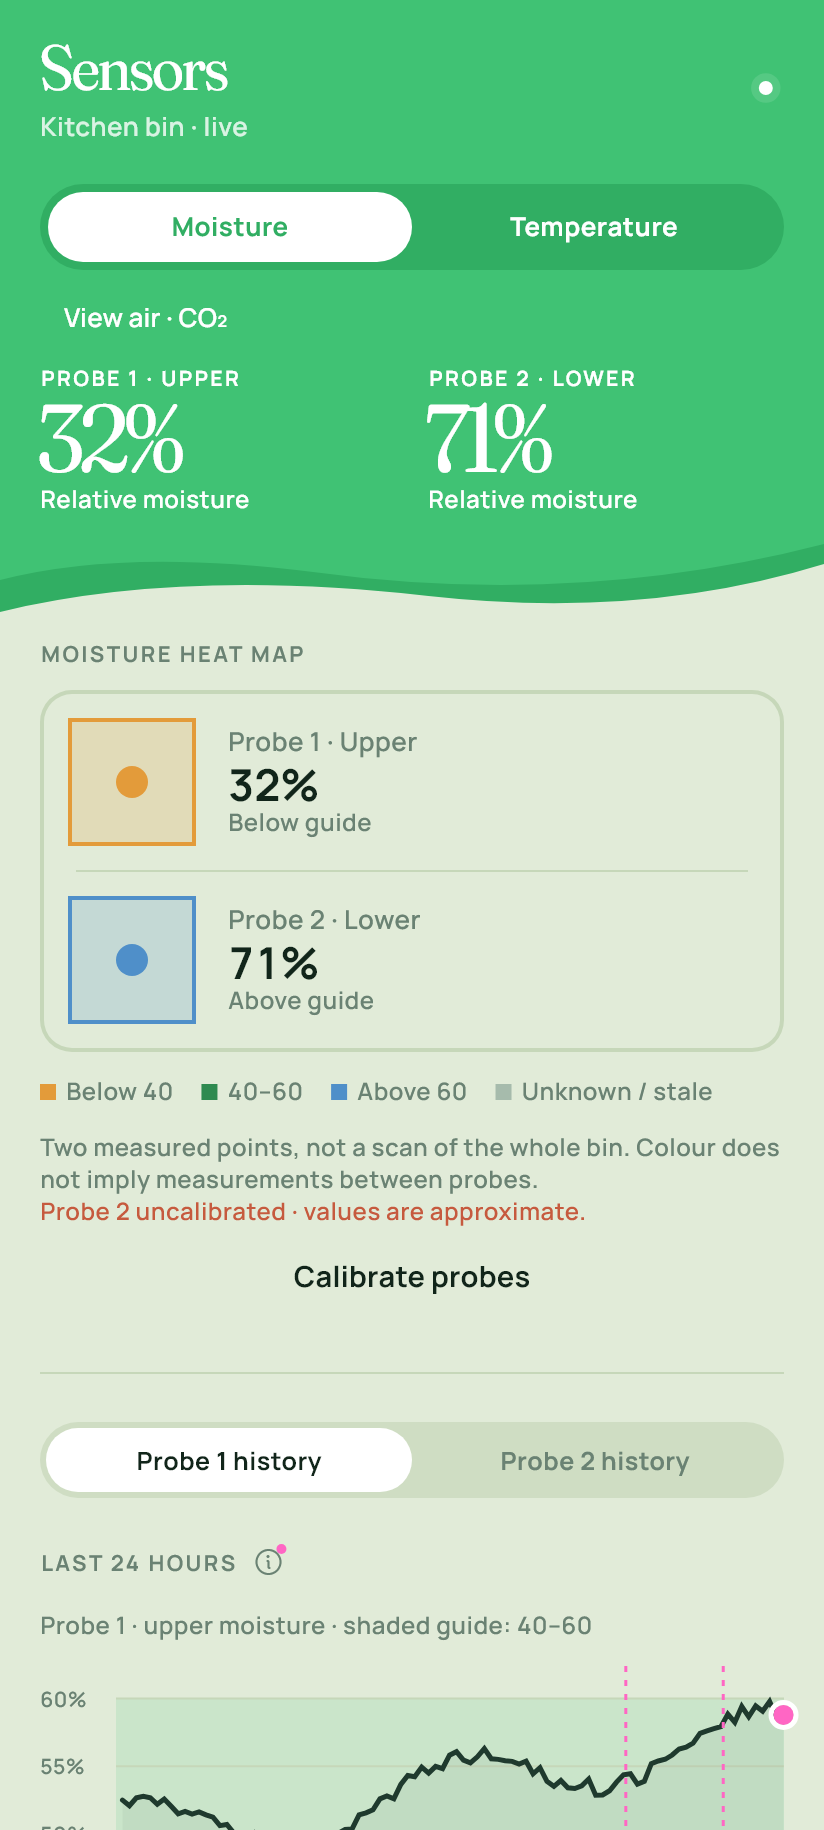
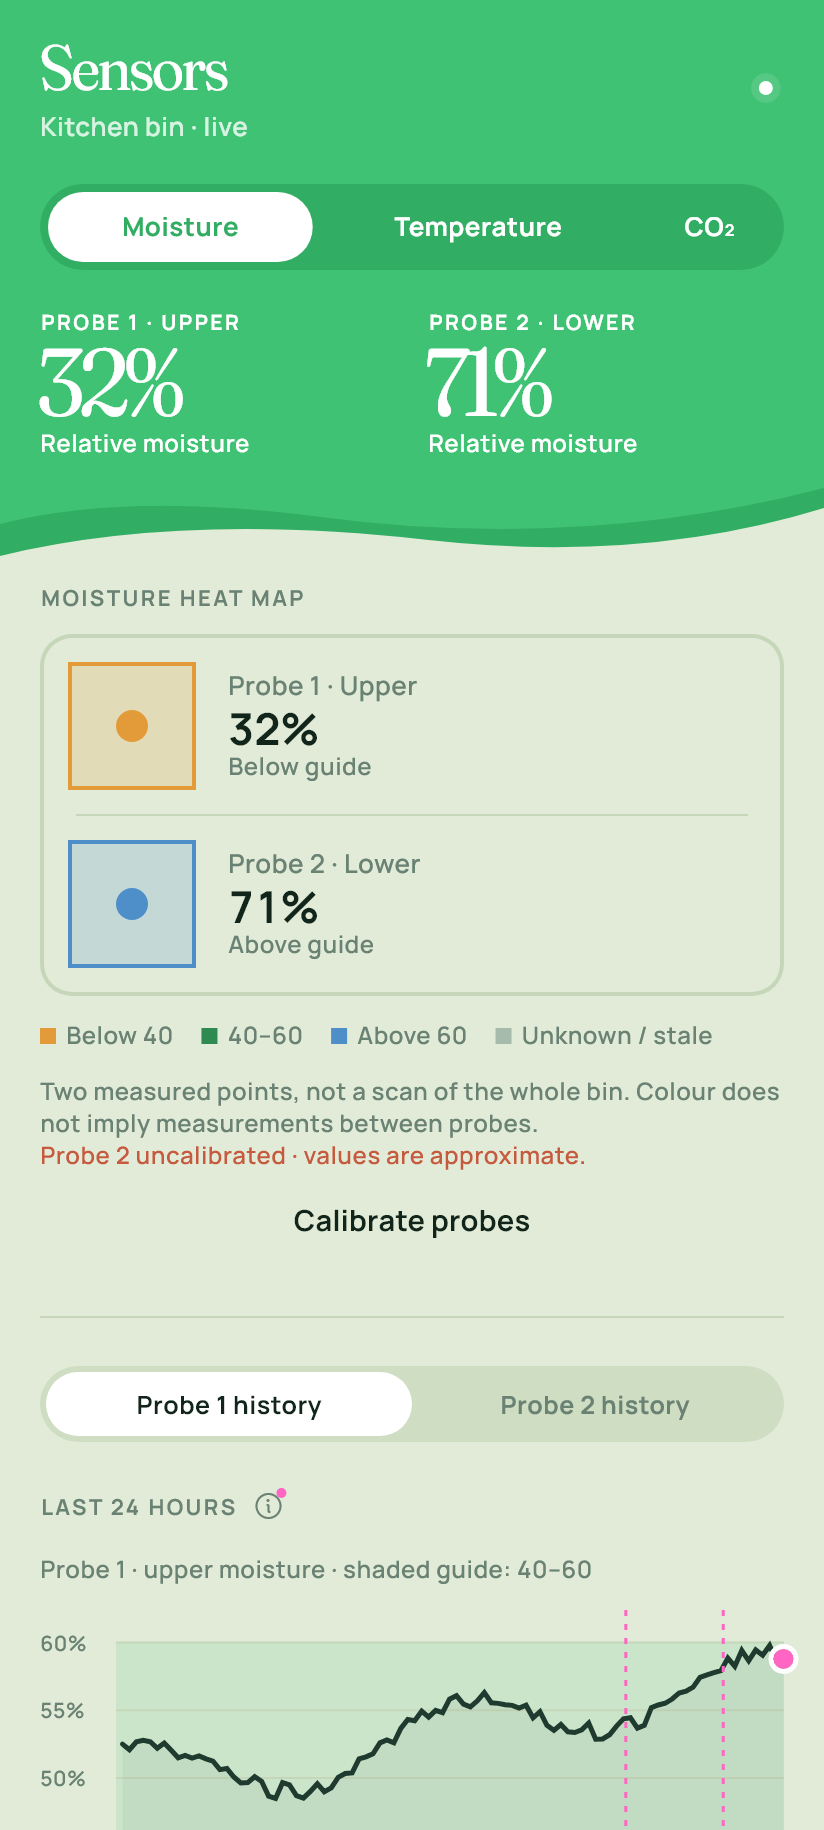
fix(sensors): show moisture temperature and CO2 in one selector

diff --git a/app/test/sensors_visual_test.dart b/app/test/sensors_visual_test.dart
@@ -9,6 +9,7 @@ import 'package:calmpost/domain/models.dart';
 import 'package:calmpost/features/layers/layers_screen.dart';
 import 'package:calmpost/state/providers.dart';
 import 'package:calmpost/ui/theme.dart';
+import 'package:calmpost/ui/brand.dart';
 import 'package:flutter/material.dart';
 import 'package:flutter/rendering.dart';
 import 'package:flutter/services.dart';
@@ -76,11 +77,25 @@ void main() {
     await t.tap(find.text('Temperature'));
     await settle(t);
     await capture('02-temperature');
+    await t.tap(find.text('CO₂'));
+    await settle(t);
+    expect(c.read(sensorMetricProvider), Metric.co2);
+    expect(t.widget<BandSegments<Metric>>(find.byType(BandSegments<Metric>)).selected, Metric.co2);
+    expect(find.text('View air · CO₂'), findsNothing);
+    await capture('03-co2');
     t.view.physicalSize = const Size(360 * 2, 740 * 2);
     t.platformDispatcher.textScaleFactorTestValue = 1.3;
     for (final metric in Metric.values) {
-      c.read(sensorMetricProvider.notifier).state = metric;
+      final label = switch (metric) {
+        Metric.moisture => 'Moisture',
+        Metric.temperature => 'Temperature',
+        Metric.co2 => 'CO₂',
+      };
+      await t.tap(find.text(label));
       await settle(t);
+      expect(c.read(sensorMetricProvider), metric);
+      expect(t.widget<BandSegments<Metric>>(find.byType(BandSegments<Metric>)).values, [Metric.moisture, Metric.temperature, Metric.co2]);
+      if (metric == Metric.co2) await capture('04-co2-small-large-text');
       final scroll = find.byType(Scrollable).first;
       for (var i = 0; i < 4; i++) {
         await t.drag(scroll, const Offset(0, -400));

diff --git a/app/lib/features/layers/layers_screen.dart b/app/lib/features/layers/layers_screen.dart
@@ -77,20 +77,22 @@ class _LayersScreenState extends ConsumerState<LayersScreen> {
       hero: Column(
         crossAxisAlignment: CrossAxisAlignment.start,
         children: [
-          // Two primary hardware views; air readings remain reachable below.
           BandSegments<Metric>(
-            values: const [Metric.moisture, Metric.temperature],
+            values: const [Metric.moisture, Metric.temperature, Metric.co2],
             selected: metric,
-            label: (m) => m == Metric.moisture ? 'Moisture' : 'Temperature',
+            label: (m) => switch (m) {
+              Metric.moisture => 'Moisture',
+              Metric.temperature => 'Temperature',
+              Metric.co2 => 'CO₂',
+            },
+            flex: (m) => switch (m) {
+              Metric.moisture => 4,
+              Metric.temperature => 5,
+              Metric.co2 => 2,
+            },
             onChanged: (m) => ref.read(sensorMetricProvider.notifier).state = m,
           ),
-          Align(
-            alignment: Alignment.centerLeft,
-            child: TextButton(
-              onPressed: () => ref.read(sensorMetricProvider.notifier).state = Metric.co2,
-              child: Text(metric == Metric.co2 ? 'Air · CO₂ selected' : 'View air · CO₂', style: T.label.copyWith(color: C.onBrand)),
-            ),
-          ),
+          const SizedBox(height: S.x5),
           if (moisture)
             Row(
               crossAxisAlignment: CrossAxisAlignment.start,

diff --git a/app/lib/ui/brand.dart b/app/lib/ui/brand.dart
@@ -128,7 +128,12 @@ class SectionLabel extends StatelessWidget {
         Expanded(
           child: info == null
               ? Text(text, style: T.caps)
-              : Row(children: [Flexible(child: Text(text, style: T.caps)), InfoDot(info!)]),
+              : Row(
+                  children: [
+                    Flexible(child: Text(text, style: T.caps)),
+                    InfoDot(info!),
+                  ],
+                ),
         ),
         ?trailing,
       ],
@@ -166,11 +171,12 @@ class PinkPill extends StatelessWidget {
 
 /// Segmented control drawn on the green band (white pill for the selected item).
 class BandSegments<V> extends StatelessWidget {
-  const BandSegments({super.key, required this.values, required this.selected, required this.label, required this.onChanged});
+  const BandSegments({super.key, required this.values, required this.selected, required this.label, required this.onChanged, this.flex});
   final List<V> values;
   final V selected;
   final String Function(V) label;
   final ValueChanged<V> onChanged;
+  final int Function(V)? flex;
 
   @override
   Widget build(BuildContext context) {
@@ -181,6 +187,7 @@ class BandSegments<V> extends StatelessWidget {
         children: [
           for (final v in values)
             Expanded(
+              flex: flex?.call(v) ?? 1,
               child: GestureDetector(
                 behavior: HitTestBehavior.opaque,
                 onTap: () {

diff --git a/app/test/bottom_probe_ui_test.dart b/app/test/bottom_probe_ui_test.dart
@@ -182,7 +182,7 @@ void main() {
     expect(find.text('Not measured · check the sensor connection'), findsOneWidget);
     expect(find.text('Ambient air: 22.0 °C'), findsOneWidget);
     expect(find.text('23.0 °C'), findsNothing);
-    await t.tap(find.text('View air · CO₂'));
+    await t.tap(find.text('CO₂'));
     await settle(t);
     expect(find.text('3600 ppm'), findsOneWidget);
     expect(c.read(sensorMetricProvider), Metric.co2);

diff --git a/AGENTS.md b/AGENTS.md
@@ -49,7 +49,7 @@ Each feature lists what the user sees, how it works, and its status.
 
 ### 2.1 Live sensing & Bin Health Score
 - **Calibrate probes** opens from Sensors or Profile settings. Choose top/probe 1 or bottom/probe 2, enter separate dry/wet raw counts (or capture the current fresh raw count), then explicitly save. Inputs must be distinct integers from 0–65535. Historical recalculation is opt-in; otherwise new readings use the new curve. Live responses carry each layer's own calibration flag. Signed-in owners may calibrate only their paired bin; other accounts, shared keys targeting a player bin and camera-device tokens are denied. Mock calibration stores the chosen references/flags in-session while its sensor values remain simulated. Switching probes clears the form to prevent accidentally reusing the other sensor's references.
-- **Metric-first sensor UI:** Sensors opens to **Moisture / Temperature**, with a separate **View air · CO₂** link. Moisture shows both probe readings (upper/probe 1, lower/probe 2), a discrete two-point heat map and a history selector. Never average the probes or interpolate a full-bin measurement from two points. Missing readings are unknown; stale readings lose status colours. Each probe keeps its own calibration flag. The 40–60 shaded moisture band is an app guide on a relative dry/wet sensor scale, not a water-by-weight measurement.
+- **Metric-first sensor UI:** Sensors opens to **Moisture / Temperature / CO₂** buttons in that order, with one consistent selected state. Moisture shows both probe readings (upper/probe 1, lower/probe 2), a discrete two-point heat map and a history selector. Never average the probes or interpolate a full-bin measurement from two points. Missing readings are unknown; stale readings lose status colours. Each probe keeps its own calibration flag. The 40–60 shaded moisture band is an app guide on a relative dry/wet sensor scale, not a water-by-weight measurement.
 - **Temperature hardware:** the lower temperature sensor is not working. The Temperature page and Home shortcut use only the working primary compost probe; ambient air is a separate comparison, never a substitute. No bottom-temperature toggle or readiness claims. Existing optional backend fields remain backward compatible; this UI change does not rewrite ingestion, health/game rules or Trunc.
 - Both moisture histories are supported by migration `008_bottom_trends.sql`: probe 1 requests `moisture`, probe 2 requests `moisture_2`. Keep loading, retryable errors and empty history distinct; older servers or newly connected probes can still return no history. Never show probe 1 history as probe 2. Temperature/CO₂ charts have no asserted healthy band.
 - **Sees:** the Bin World on Home (a living cross-section of the bin), the health score on its bezel, metric shortcuts (both moisture readings, compost temperature, CO₂), and charts on Sensors.
@@ -478,7 +478,7 @@ Every tab opens with the **brand band** (`ui/brand.dart`: `BrandPage`, `BrandBan
 | Screen | Status | What's on it |
 |---|---|---|
 | **Home** | ✅ | Band: HUD (level ring + XP, streak, Loam, rewards) · **Bin World** · score, state pill, status. Then **Trunc** (current-bin text suggestion + specific-question button), followed by **Daily goal** (today's XP fills a pink track to 20 / 40 / 60 XP reward nodes: 15 Loam, 30 Loam, Sprout crate; tap a pulsing node to claim) · **Rewards ready** (crates and Seed Packets wiggling; tap a crate for the reveal) · **Today** quests · **League race** (your rank, XP to the promotion zone, the players just above and below you) · **Streak** calendar + next milestone and its reward · Live readings (moved to the bottom). **Drop something in** (forest pill under the status line) opens the camera drop-in |
-| **Sensors** | ✅ | Band: Moisture / Temperature switcher and separate CO₂ link. Moisture: two live readings, discrete two-point heat map, per-probe calibration warning/link, probe 1/2 history selector. Temperature: working compost probe + ambient comparison, no lower temperature. Both: 24 h chart, Latest / Avg / Low / High, limitations, recent adds. Missing/stale data and loading/error/empty history stay explicit |
+| **Sensors** | ✅ | Band: Moisture / Temperature / CO₂ switcher. Moisture: two live readings, discrete two-point heat map, per-probe calibration warning/link, probe 1/2 history selector. Temperature: working compost probe + ambient comparison, no lower temperature. Both: 24 h chart, Latest / Avg / Low / High, limitations, recent adds. Missing/stale data and loading/error/empty history stay explicit |
 | **Log** | ✅ | Band: search field + camera button (opens the camera drop-in). Then Recommended now (tips), Greens / Browns / Keep out lists → **verdict sheet**: Good to add / Add with care / Keep it out, headline, reason, pair-it-with (tap to check that instead), XP note, Add it / Keep it out. **Demo moment** |
 | **Social** | ✅ | Band: league name, reset countdown, your rank, XP this week, "XP to go" or Promotion zone, six-tier ladder. Then This week (table with promotion/demotion zones, your row marked in pink) / Friends (co-op friend quest, friends list with Nudge) |
 | **Profile** | ✅ | Band: avatar, level + title, XP bar, streak / total XP / harvests / Loam. Then rewards waiting (crates + packets, Open), impact, achievements (tier dots, progress, next crate), collection by rarity, settings |
